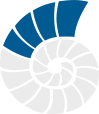
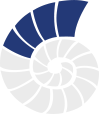
Major design change - implement updated colours and fonts for NHS identity February 2017

Changed region(s): [[0.0303, 0.0, 0.9091, 0.5263]]

diff --git a/_sass/base/_variables.scss b/_sass/base/_variables.scss
@@ -1,9 +1,9 @@
 // Google Fonts
-@import url(//fonts.googleapis.com/css?family=Open+Sans:300italic,400italic,600italic,700italic,800italic,400,800,700,600,300);
+//@import url(//fonts.googleapis.com/css?family=Open+Sans:300italic,400italic,600italic,700italic,800italic,400,800,700,600,300);
 
 // Typography
-$base-font-family: "Open Sans", "Helvetica Neue", "Helvetica",  "Arial", sans-serif; // $helvetica;
-$heading-font-family: "Museo Sans", "Helvetica Neue", "Helvetica", "Arial", sans-serif; // $base-font-family;
+$base-font-family: "Arial", sans-serif; // $helvetica;
+$heading-font-family: "Arial", sans-serif; // $base-font-family;
 
 // Font Sizes
 $base-font-size: $em-base; // 16px
@@ -22,10 +22,10 @@ $small-spacing: $base-spacing / 2;
 $base-z-index: 0;
 
 // Colors
-$black: #111;
-$dark-gray: #333;
-$medium-gray: #999;
-$light-gray: #ddd;
+$black: #231f20; // this is NHS black
+$dark-gray: #425563; // NHS dark grey
+$medium-gray: #768692; // NHS mid grey
+$light-gray: #E8EDEE; // NHS Pale grey
 $blue: #2980b9;
 $background-grey: #373535;
 $white: #fff;
@@ -33,6 +33,7 @@ $white: #fff;
 // NHS Colours
 $orange: #ff6600;
 $yellow: #ffff00;
+
 
 // Design 1
 $orange: #c14028;
@@ -55,15 +56,20 @@ $lightblue: #76CAF2; // practice and governance - MBI groups
 $ochre: #CDAB41; // research - what works
 // rgb: 205,171,65
 
-$primary-color: $darkblue;
-$secondary-color: $midblue;
-$tertiary-color: $lightblue;
-$highlight-color: $ochre;
+$nhs-outreach: #233977;
+$nhs-train: #246fb6;
+$nhs-practice: #40b6e6;
+$nhs-research: #fab724;
 
-$outreach: $darkblue;
-$training: $midblue;
-$practice: $lightblue;
-$research: $ochre;
+$primary-color: $nhs-outreach;
+$secondary-color: $nhs-train;
+$tertiary-color: $nhs-practice;
+$highlight-color: $nhs-research;
+
+$outreach: $nhs-outreach;
+$training: $nhs-train;
+$practice: $nhs-practice;
+$research: $nhs-research;
 
 // Font Colors
 $base-background-color: #fff;

diff --git a/_sass/_layout-core.scss b/_sass/_layout-core.scss
@@ -57,7 +57,7 @@ ul.nolist {
     @extend %default-ul;
 }
 code {
-    background-color: #eee;
+    background-color: $light-gray;
     display: inline-block;
     border-radius: 3px;
     padding: 0 3px;
@@ -69,13 +69,13 @@ code {
     height: 30px;
 }
 a:hover .icon { /* hover colour */
-    fill: darken($midblue,20%);
+    fill: darken($secondary-color,20%);
 }
 a:hover .icon__white { /* hover colour */
-    fill: $research;
+    fill: $highlight-color;
 }
 .icon--readmore {
-    fill: $lightblue;
+    fill: $tertiary-color;
     margin-bottom: -5px;
     width: 20px;
     height: 20px;
@@ -90,7 +90,7 @@ a:hover .icon__white { /* hover colour */
     fill: $medium-gray;
 }
 .icon--logo {
-    fill: $midblue;
+    fill: $secondary-color;
     width: 40px;
     height: 40px;
 }
@@ -220,7 +220,7 @@ img {
 */
 .site-footer {
     $link-color: $white;
-    $footer-bg-color: $darkblue;
+    $footer-bg-color: $primary-color;
     padding: 1em 1em 2em 1em;
     background-color: $footer-bg-color;
     color: $white;
@@ -378,7 +378,7 @@ img {
     display: none;
 }
 .h2__promote {
-    border-bottom: 3px solid #ccc;
+    border-bottom: 3px solid $light-gray;
     font-weight: 400;
 }
 
@@ -448,7 +448,7 @@ img {
 
 /* used on home page for slider */
 .head {
-    background-color: $lightblue;
+    background-color: $tertiary-color;
     padding: 0;
 }
 .two-thirds {
@@ -470,7 +470,7 @@ img {
 }
 
 .about {
-    background-color: $lightblue;
+    background-color: $tertiary-color;
     //color: white;
     p {
         margin-top: 10px;
@@ -480,7 +480,7 @@ img {
 
 .event {
     h3 {
-        background-color: $darkblue;
+        background-color: $primary-color;
         color: $white;
         padding: 0 10px;
         margin: 0;
@@ -510,7 +510,7 @@ img {
 
 }
 .notice {
-    border: 1px solid #ccc;
+    border: 1px solid $light-gray;
     padding: 10px;
     margin: 1rem;
 }

diff --git a/_sass/_layout-nav.scss b/_sass/_layout-nav.scss
@@ -43,12 +43,13 @@
     }
     // when there is no image
     font-family: $heading-font-family;
-    font-weight: 100;
-    color: $black;
+    font-weight: 400;
+    color: $primary-color;
     text-decoration: none;
     //height: 4em;
     span {
-        font-size: 1.25em;
+        font-size: 2em;
+        line-height: 1em;
     }
 }
 
@@ -59,7 +60,7 @@
     font-style: italic;
     font-weight: 500;
     font-size: 16px;
-    color: $midblue;
+    color: $tertiary-color;
     text-align: center;
 
     @include media ($mobile) {
@@ -133,7 +134,7 @@ ul.navigation-menu {
     padding: 0;
     width: 100%;
     @include media ($tablet) {
-        background-color: lighten($darkblue,5%);
+        background-color: $primary-color;
         display: block;
         margin: 0;
         padding: 0;
@@ -165,11 +166,11 @@ li.nav-link {
         transition: all 0.2s ease-in-out;
         @include media ($tablet) {
             color: white;
-            background: $darkblue;
+            background: $primary-color;
             padding: 10px;
             &:hover {
                 text-decoration: none;
-                background: darken($darkblue, 10%);
+                background: darken($primary-color, 10%);
             }
             &.research {
                 background-color: $research;
